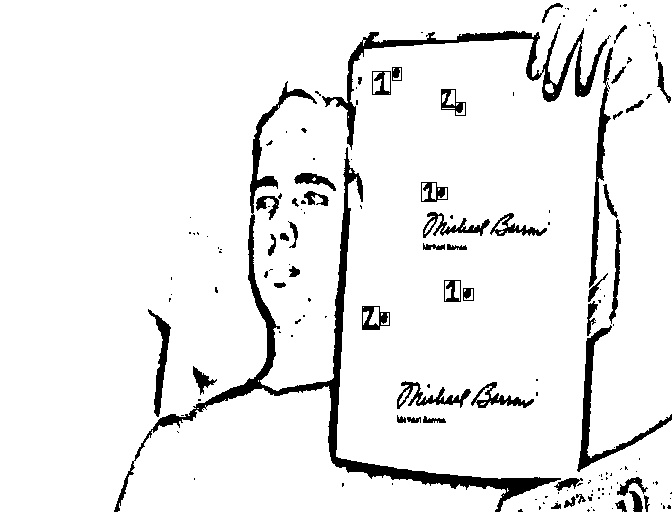
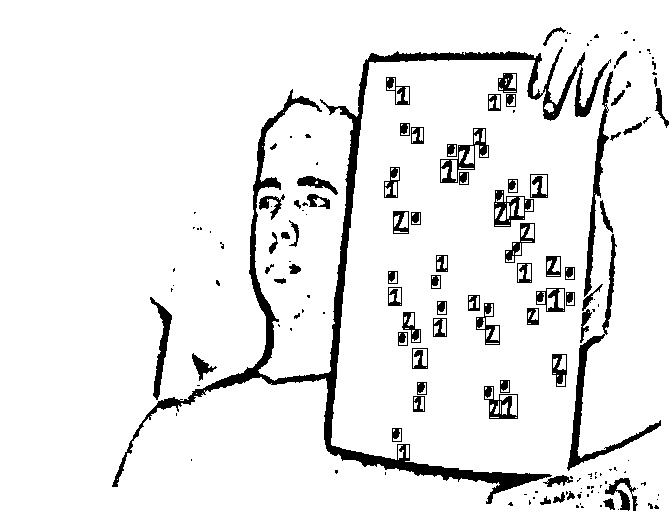
fixed resized, nearly done with generating samples

diff --git a/generate.py b/generate.py
@@ -145,11 +145,14 @@ def main():
 
                     bboxs[0].append(get_corners(top_left, dot))
                     break
-
-        deg = 0
+                    
+        deg = np.random.uniform(-15, 15)
         
+        org_center = np.array(canvas.img.shape[::-1]).reshape(2,-1) / 2
+
         canvas.rotate(deg)
         rot_center = np.array(canvas.img.shape[::-1]).reshape(2,-1) / 2
+        rot_size = canvas.img.shape[::-1]
     
         background_count = random.randint(0, MAX_BACKGROUNDS_TO_DRAW)
         for i in range(background_count):
@@ -165,10 +168,8 @@ def main():
                 x1 = random.randint(0, canvas.img.shape[1])
 
             canvas.draw_on_background(background, (x1, y1))
-            
-        org_size = canvas.img.shape[::-1]
-        org_center = np.array(org_size).reshape(2,-1) / 2
         
+                
         canvas.resize(IMAGE_SIZE)
         
         rad = np.deg2rad(deg)
@@ -178,9 +179,9 @@ def main():
         for k,v in bboxs.items():
             for obj in v:
                 rt_bbox = np.dot(rt, np.array(obj).T - org_center) + rot_center
-
-                corners = tuple([get_scaled_position(corner, org_size, IMAGE_SIZE) for corner in [rt_bbox[:, 0], rt_bbox[:, 1], rt_bbox[:, 2], rt_bbox[:, 3]]])
                 
+                corners = tuple([get_scaled_position(corner, rot_size, IMAGE_SIZE) for corner in [rt_bbox[:, 0], rt_bbox[:, 1], rt_bbox[:, 2], rt_bbox[:, 3]]])
+        
                 bbox_str += ('%d %f %f %f %f\n' % (k, *get_yolo_bbox(corners, canvas)))
                 
                 if DRAW_BBOX:            
